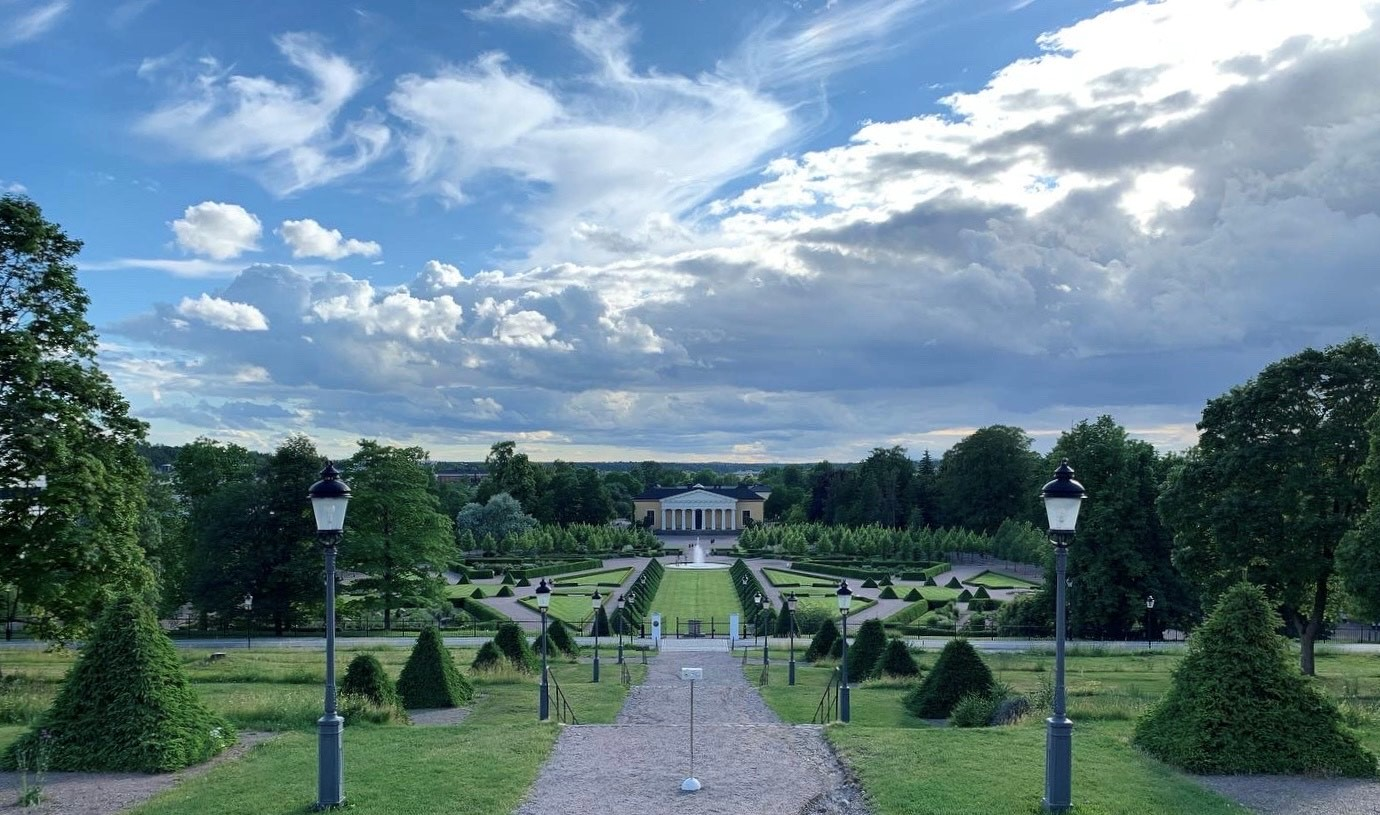
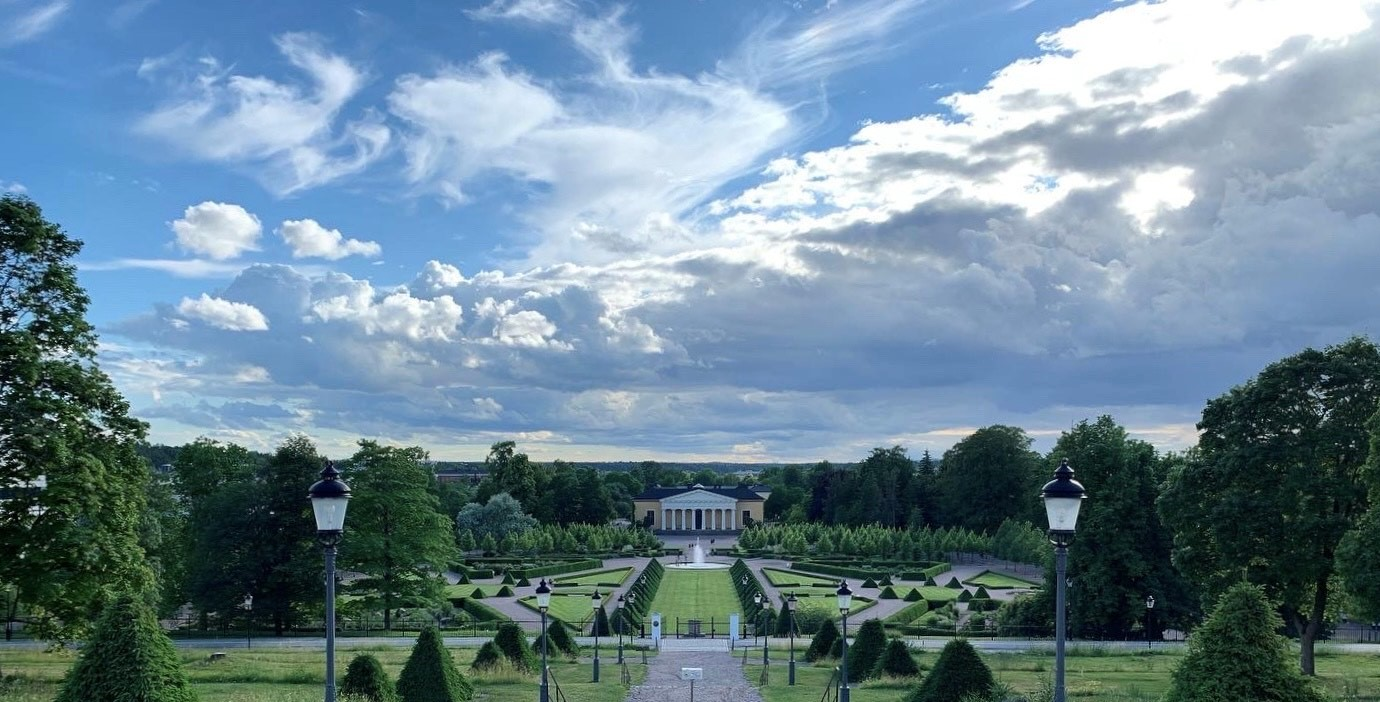
adjusted cropping, debug added home link

diff --git a/index.html b/index.html
@@ -12,7 +12,7 @@ header:
     - label: "Game Dev"
       url: "/gamedev/"
   caption: >-
-    Uppsala Botanical Garden, as seen from Uppsala Castle. Credit: Thomas Schinas
+    Uppsala Botanical Garden, as seen from<br>Uppsala Castle. Credit: Thomas Schinas
 excerpt: |
   I'm Thomas, games localization and release management veteran. Welcome to my website!
   This is my first foray into finally learning some web dev, utilizing GitHub Pages and Jekyll.
